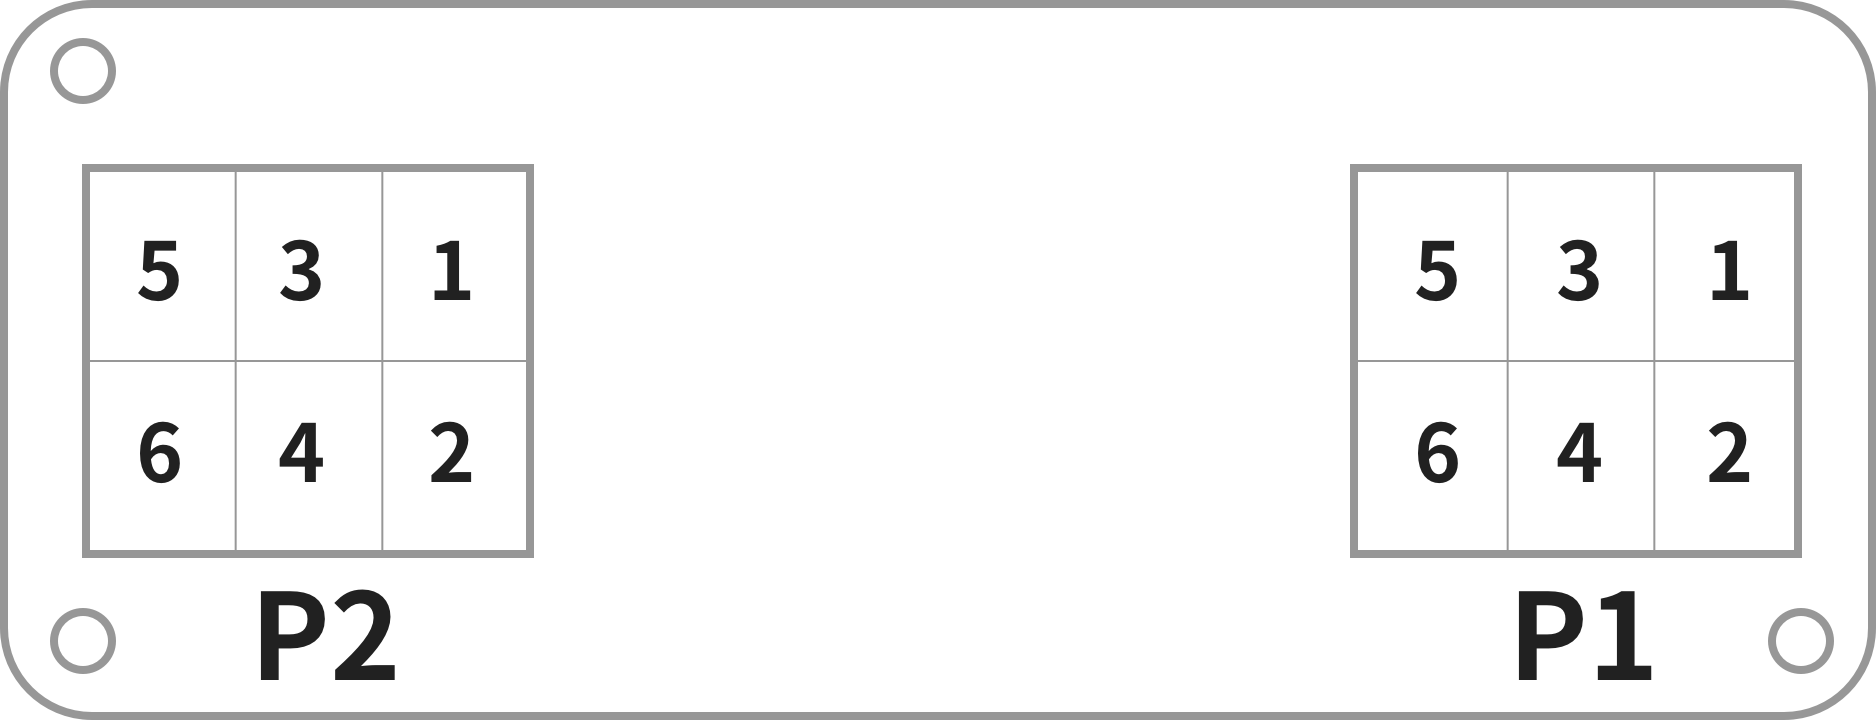
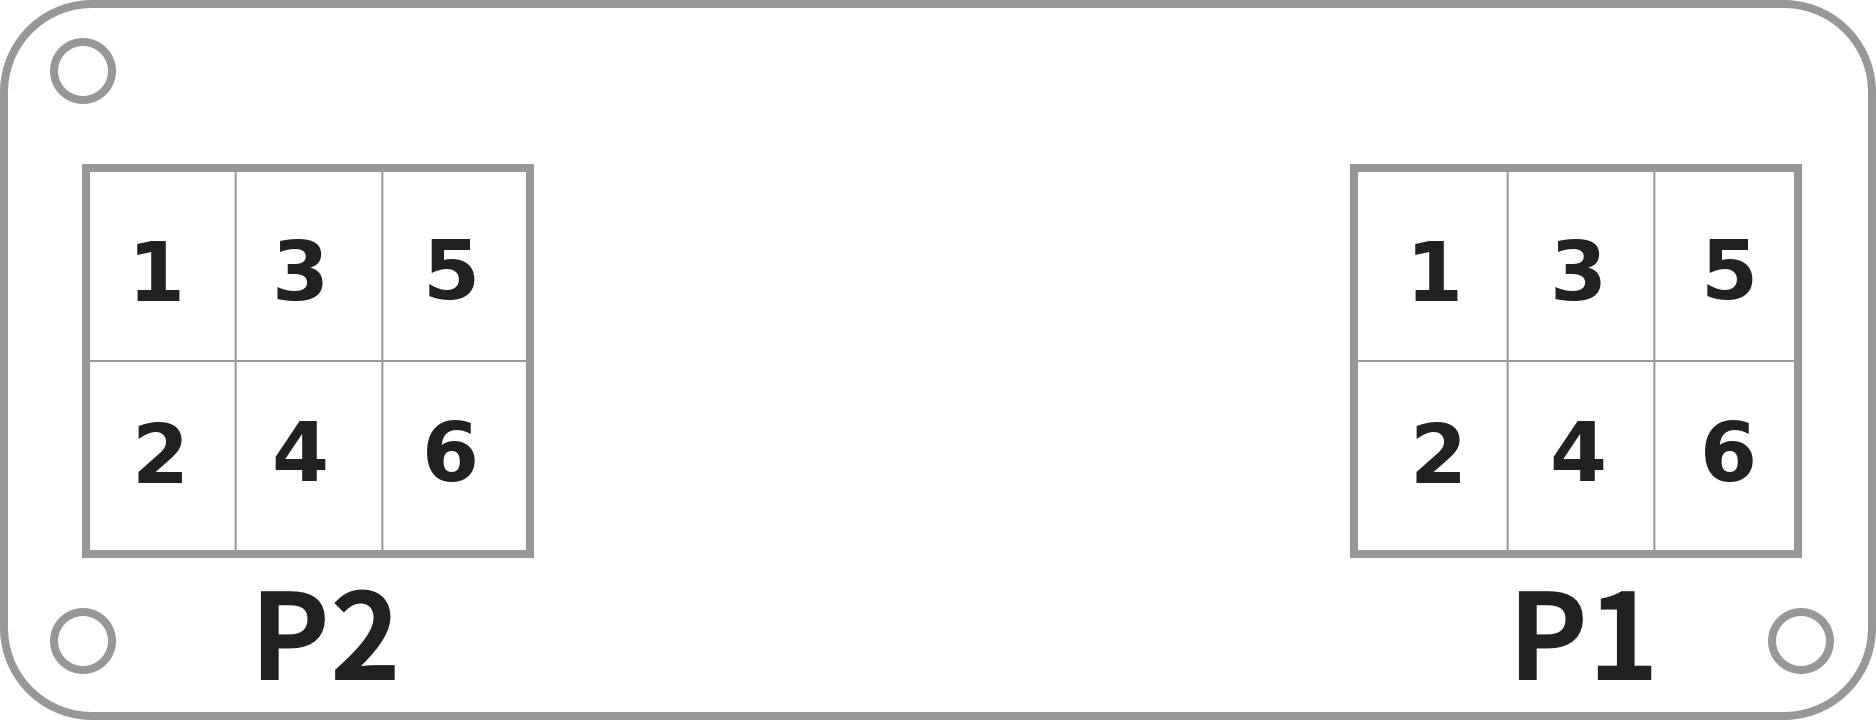
docs:  Correct ML6432A and ML6432A_BO connector pin assignment diagrams (#11)
* Remove obsolete ML6432A position reference

* Update ML6432A connector pin assignment to 135/246

* Swap P1/P2 labels in ML6432A_BO connector pin assignment

* Fix broken ML6432A P1/P2 position image references

diff --git a/modules/ml6432a.md b/modules/ml6432a.md
@@ -85,7 +85,7 @@ The images below come from the `WDR` integration material and can be used as sup
 
 <div style="text-align: center; margin: 10px 0;">
   <img src="./img/MDR/ml6432a-connector-layout-reference.png" alt="ML6432A connector layout reference" width="48%" style="display: inline-block; margin: 0 12px;" />
-  <img src="./img/MDR/ml6432a-p1-p2-position-reference.png" alt="ML6432A P1 and P2 position reference" width="38%" style="display: inline-block; margin: 0 12px;" />
+  <img src="./img/MDR/ml6432a-connector-pin-assignment.png" alt="ML6432A P1 and P2 position reference" width="38%" style="display: inline-block; margin: 0 12px;" />
   <p style="margin: 4px 0 0 0;">Connector layout and P1/P2 position references</p>
 </div>
 

diff --git a/modules/ml6432ax.md b/modules/ml6432ax.md
@@ -114,7 +114,7 @@ Additional integration references from the WDR material are shown below.
 
 <div style="text-align: center; margin: 10px 0;">
   <img src="./img/MDR/ml6432a-connector-layout-reference.png" alt="ML6432A connector layout reference" width="48%" style="display: inline-block; margin: 0 12px;" />
-  <img src="./img/MDR/ml6432a-p1-p2-position-reference.png" alt="ML6432A P1 and P2 position reference" width="38%" style="display: inline-block; margin: 0 12px;" />
+  <img src="./img/MDR/ml6432a-connector-pin-assignment.png" alt="ML6432A P1 and P2 position reference" width="38%" style="display: inline-block; margin: 0 12px;" />
   <p style="margin: 4px 0 0 0;">Connector layout and P1/P2 position references</p>
 </div>
 

diff --git a/modules/ml6432ax_cn.md b/modules/ml6432ax_cn.md
@@ -114,7 +114,7 @@ ML6432A 系列是基于 TI IWR6432AOP 芯片开发的高性能低功耗毫米波
 
 <div style="text-align: center; margin: 10px 0;">
   <img src="./img/MDR/ml6432a-connector-layout-reference.png" alt="ML6432A 连接器布局参考图" width="48%" style="display: inline-block; margin: 0 12px;" />
-  <img src="./img/MDR/ml6432a-p1-p2-position-reference.png" alt="ML6432A P1 与 P2 位置参考图" width="38%" style="display: inline-block; margin: 0 12px;" />
+  <img src="./img/MDR/ml6432a-connector-pin-assignment.png" alt="ML6432A P1 与 P2 位置参考图" width="38%" style="display: inline-block; margin: 0 12px;" />
   <p style="margin: 4px 0 0 0;">连接器布局与 P1/P2 位置参考</p>
 </div>
 

diff --git a/modules/ml6432a_cn.md b/modules/ml6432a_cn.md
@@ -85,7 +85,7 @@
 
 <div style="text-align: center; margin: 10px 0;">
   <img src="./img/MDR/ml6432a-connector-layout-reference.png" alt="ML6432A 连接器布局参考图" width="48%" style="display: inline-block; margin: 0 12px;" />
-  <img src="./img/MDR/ml6432a-p1-p2-position-reference.png" alt="ML6432A P1 与 P2 位置参考图" width="38%" style="display: inline-block; margin: 0 12px;" />
+  <img src="./img/MDR/ml6432a-connector-pin-assignment.png" alt="ML6432A P1 与 P2 位置参考图" width="38%" style="display: inline-block; margin: 0 12px;" />
   <p style="margin: 4px 0 0 0;">连接器布局与 P1/P2 位置参考</p>
 </div>
 
